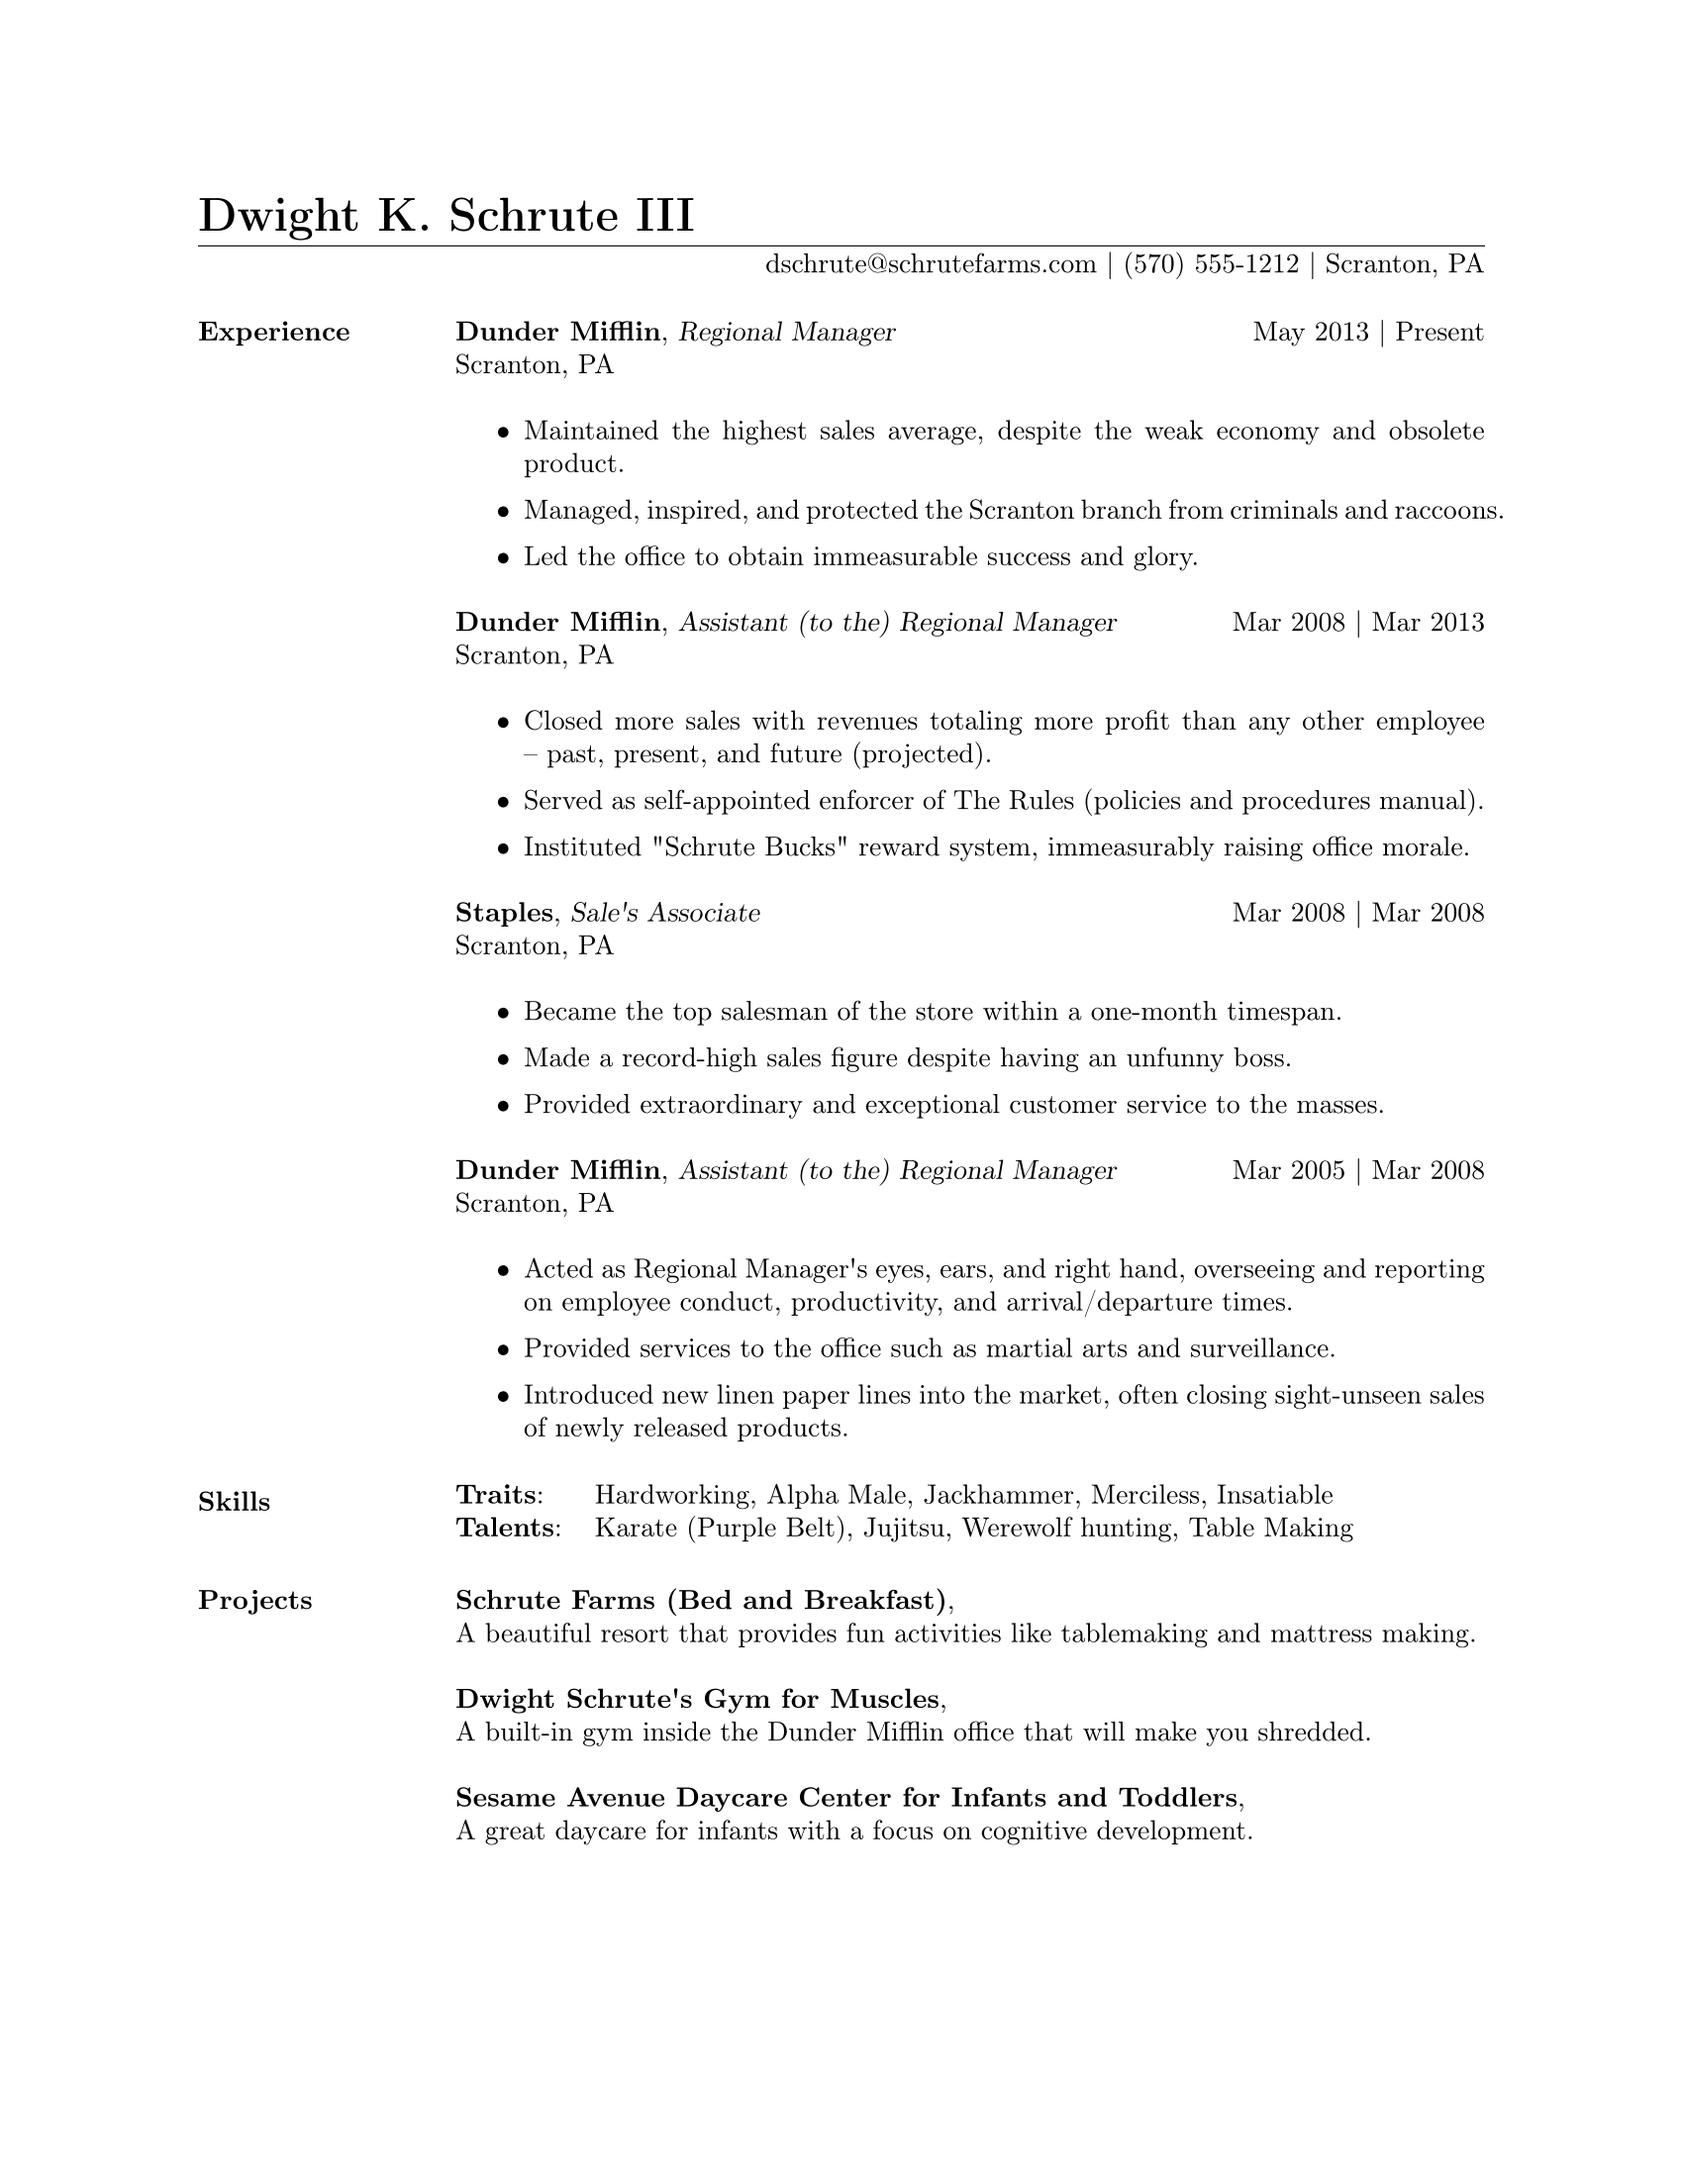
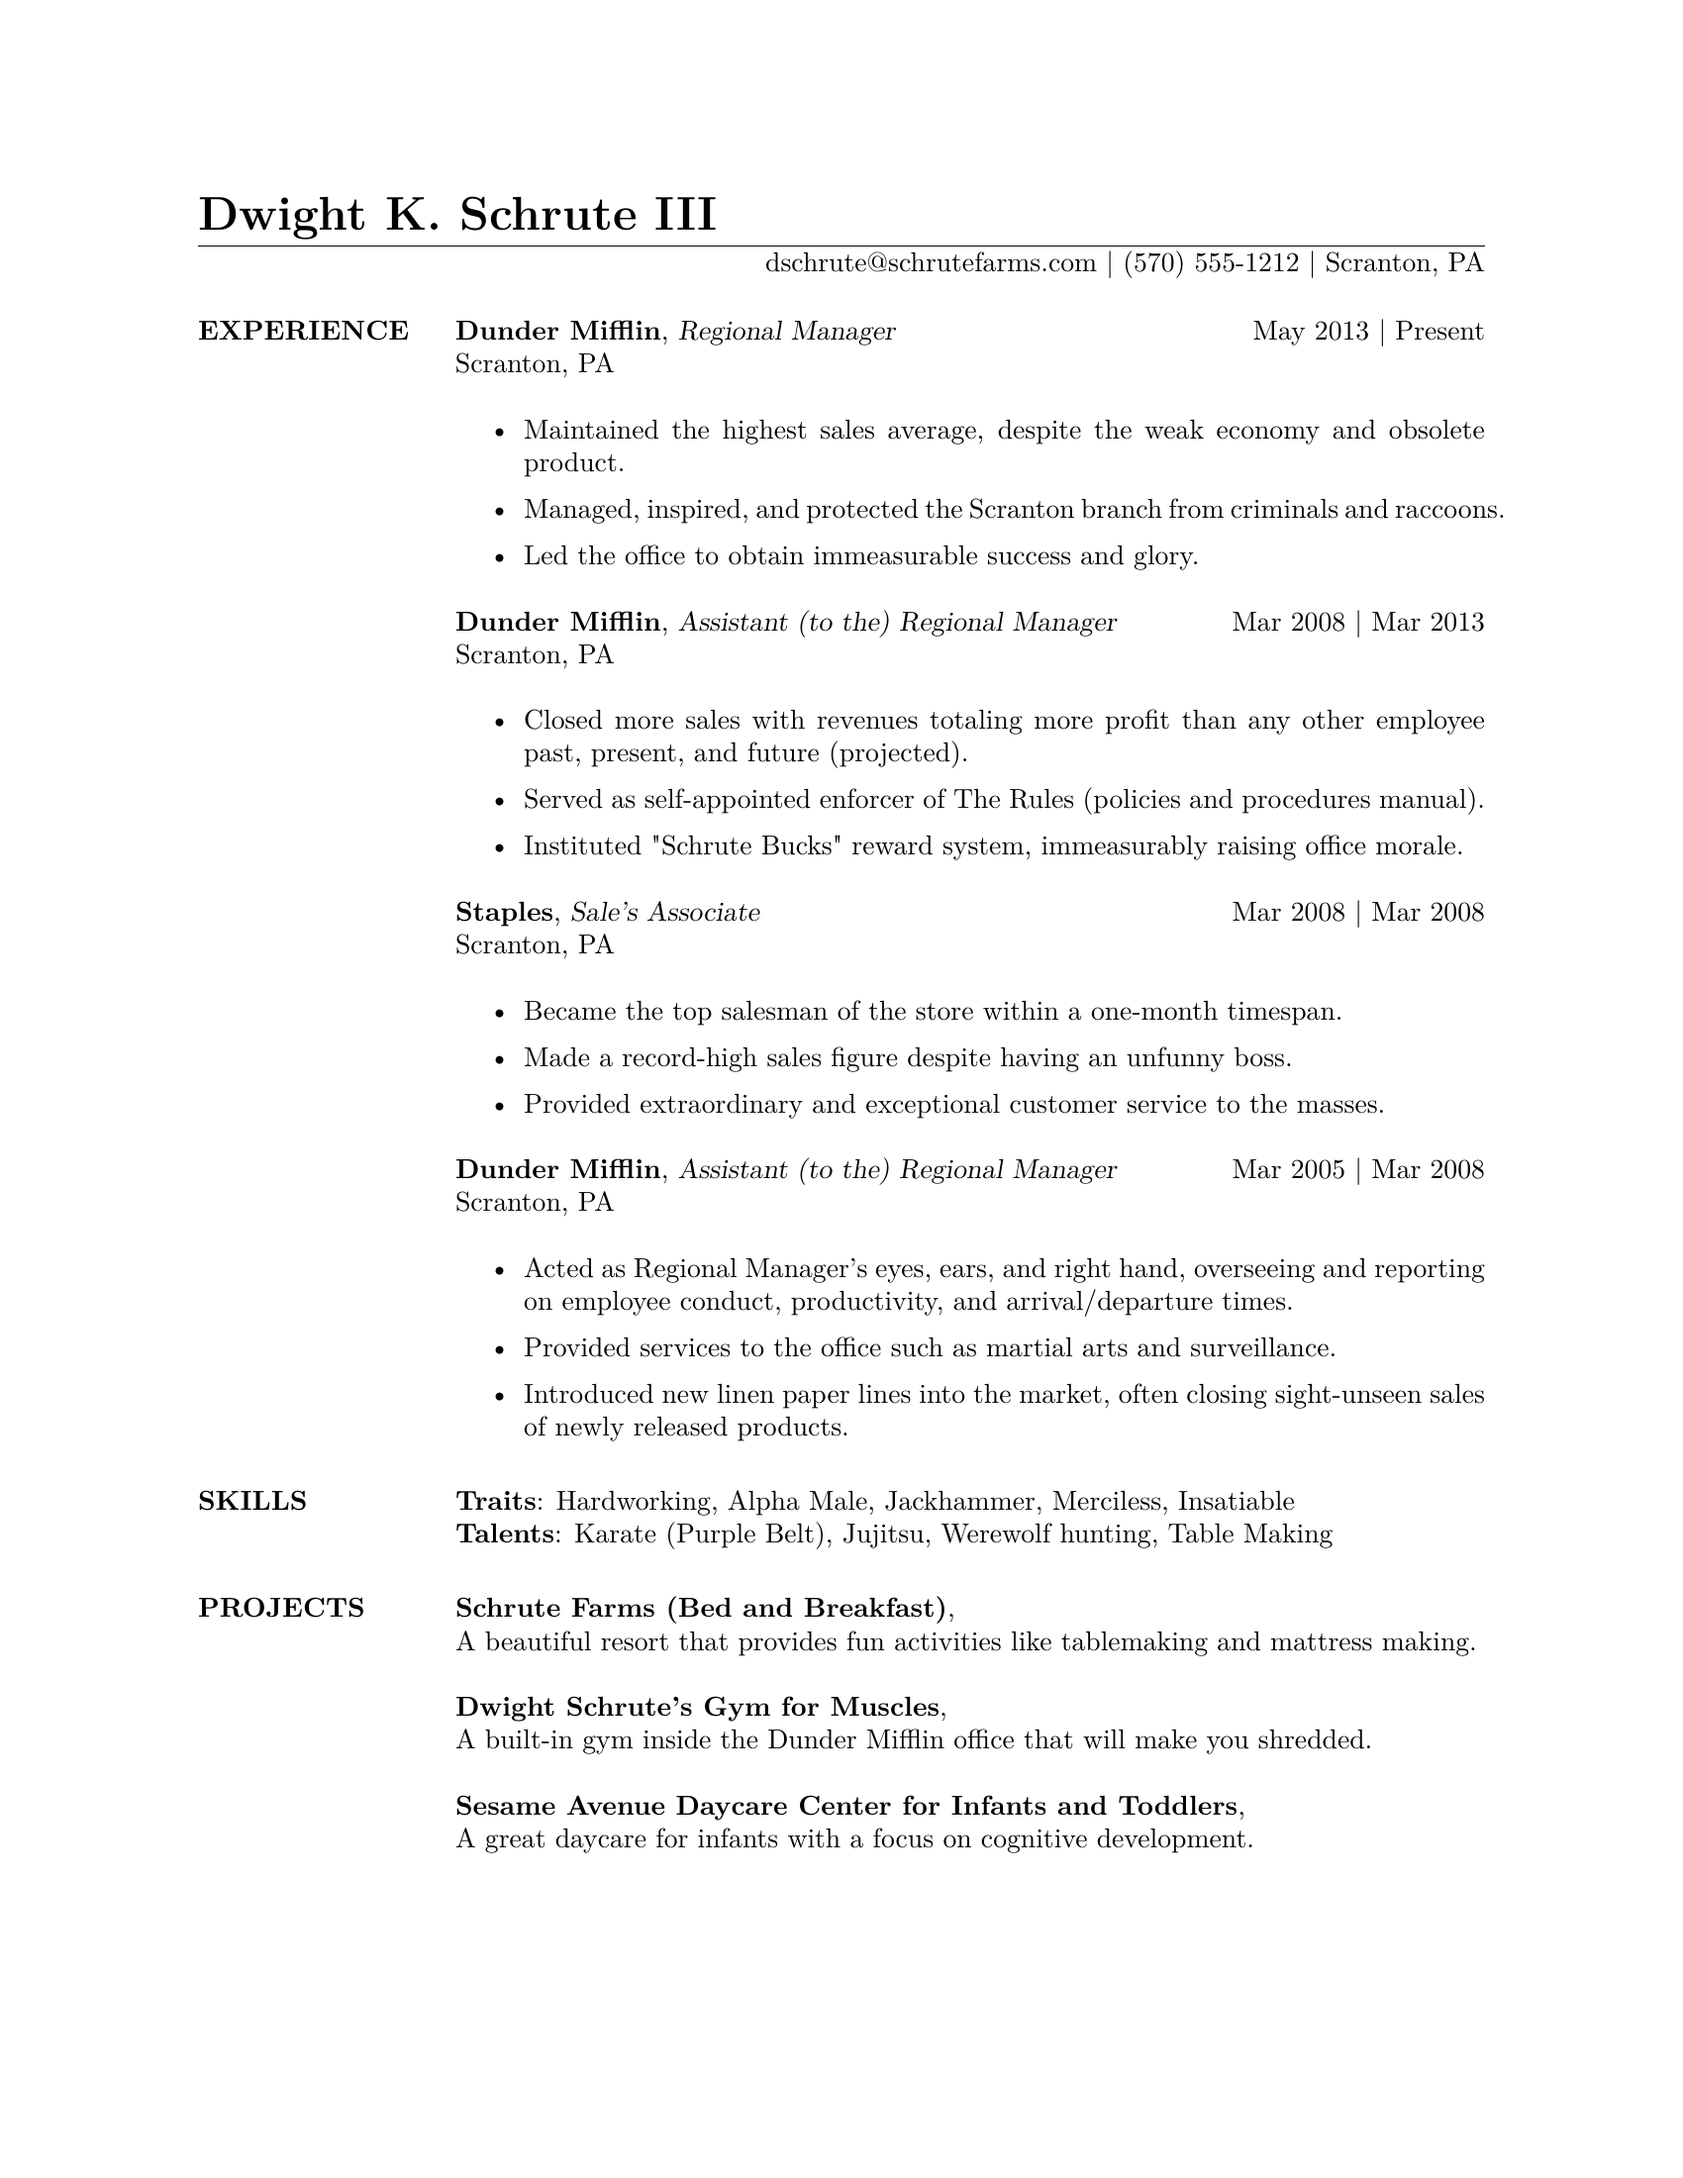
fix(templates): make templates 4, 5, 8, 9 extract cleanly from PDF
- template 4: project URL on its own line, one skill per line
- template 5: one skill per line
- template 8: no common ligatures or line-end hyphenation; titles follow heading
- template 9: precomposed accents, intact education dates, standalone Skills heading
- add dependency-free generator regression tests

diff --git a/src/lib/templates/template9.ts b/src/lib/templates/template9.ts
@@ -78,6 +78,7 @@ const generator: Generator = {
             {${degreeLine}}
             {${dateRange || ''}}
             {${nameLine}}
+            {}
             ${i < lastSchoolIndex ? '\\sepspace' : ''}
         `
       })}
@@ -211,6 +212,9 @@ const generator: Generator = {
       \\usepackage[english]{babel}
       \\usepackage[utf8]{inputenc}
       \\usepackage[T1]{fontenc}
+      % Map accented glyphs to precomposed Unicode characters for PDF text.
+      \\input{glyphtounicode}
+      \\pdfgentounicode=1
       \\usepackage{lmodern}
       \\usepackage[protrusion=true,expansion=true]{microtype}
       \\usepackage[svgnames]{xcolor}  % Colours by their 'svgnames'
@@ -238,24 +242,25 @@ const generator: Generator = {
       \\usepackage{sectsty}
 
       \\sectionfont{                 % Change font of \\section command
-        \\usefont{OT1}{phv}{b}{n}%   % bch-b-n: CharterBT-Bold font
+        \\usefont{T1}{phv}{b}{n}%   % Helvetica Bold font
         \\sectionrule{0pt}{0pt}{-5pt}{3pt}}
 
       %%% Macros
       %%% ------------------------------------------------------------
       \\newlength{\\spacebox}
+      \\newlength{\\datebox}
       \\settowidth{\\spacebox}{8888888888}      % Box to align text
       \\newcommand{\\sepspace}{\\vspace*{1em}}   % Vertical space macro
 
       \\newcommand{\\MyName}[1]{ % Name
-          \\Huge \\usefont{OT1}{phv}{b}{n} \\hfill #1
+          \\Huge \\usefont{T1}{phv}{b}{n} \\hfill #1
           \\par \\normalsize \\normalfont}
 
       \\newcommand{\\MySlogan}[1]{ % Slogan (optional)
           \\large \\usefont{OT1}{phv}{m}{n}\\hfill \\textit{#1}
           \\par \\normalsize \\normalfont}
 
-      \\newcommand{\\NewPart}[1]{\\section*{\\uppercase{#1}}}
+      \\newcommand{\\NewPart}[2]{\\section*{\\uppercase{#1}}}
 
       \\newcommand{\\PersonalEntry}[2]{
           \\noindent\\hangindent=2em\\hangafter=0 % Indentation
@@ -265,9 +270,7 @@ const generator: Generator = {
 
       \\newcommand{\\SkillsEntry}[2]{                % Same as \\PersonalEntry
           \\noindent\\hangindent=2em\\hangafter=0 % Indentation
-          \\parbox{\\spacebox}{                  % Box to align text
-          \\textit{#1}}                    % Entry name (birth, address, etc.)
-          \\hspace{1.5em} #2 \\par}              % Entry value
+          \\textit{#1}\\enspace #2 \\par}
 
       \\newcommand{\\AwardsEntry}[2]{                % Same as \\PersonalEntry
           \\noindent\\hangindent=2em\\hangafter=0 % Indentation
@@ -276,10 +279,9 @@ const generator: Generator = {
           \\hspace{1.5em} #2 \\par}              % Entry value
 
       \\newcommand{\\EducationEntry}[4]{
-          \\noindent \\textbf{#1} \\hfill      % Study
-          \\colorbox{Black}{
-            \\parbox{8.5em}{
-            \\hfill\\color{White}#2}} \\par  % Duration
+          \\settowidth{\\datebox}{#2}
+          \\noindent \\parbox[t]{\\dimexpr\\linewidth-\\datebox-2\\fboxsep-1em\\relax}{\\textbf{#1}} \\hfill
+          \\colorbox{Black}{\\mbox{\\color{White}#2}} \\par  % Duration
           \\noindent \\textit{#3} \\par        % School
           \\noindent\\hangindent=2em\\hangafter=0 \\small #4 % Description
           \\normalsize \\par}

diff --git a/src/lib/templates/template4.ts b/src/lib/templates/template4.ts
@@ -42,7 +42,7 @@ const generator: Generator = {
         ${sectionHeader}
         \\centering{
           \\color{headings}
-          \\fontspec[Path = fonts/raleway/]{Raleway-Medium}
+          \\fontspec[Path = fonts/]{Raleway-Medium}
           \\fontsize{11pt}{14pt}
           \\selectfont ${info}
         }
@@ -209,12 +209,10 @@ const generator: Generator = {
       %%%%%%%%%%%%%%%%%%%%%%%%%%%%%%%%%%%%%%
       \\section{${heading || 'Skills'}}
       \\raggedright
-      \\begin{tabular}{ l l }
       ${skills.map((skill) => {
         const { name = '', keywords = [] } = skill
-        return `\\descript{${name}} & {\\location{${keywords.join(', ')}}} \\\\`
+        return `\\noindent {\\descript{${name}:} \\location{${keywords.join(', ')}}}\\par`
       })}
-      \\end{tabular}
       \\sectionsep
     `
   },
@@ -238,6 +236,7 @@ const generator: Generator = {
         let line1 = ''
         let line2 = ''
         let line3 = ''
+        let urlLine = ''
 
         if (name) {
           line1 += `\\runsubsection{\\large{${name}}}`
@@ -248,11 +247,14 @@ const generator: Generator = {
         }
 
         if (url) {
-          line2 += `\\hfill \\location{${url}}`
+          urlLine = `\\noindent\\location{\\url{${url}}}\\par`
         }
 
-        if (line2) {
-          line2 += '\\\\'
+        if (line1 || line2) {
+          line2 += '\\par'
+          if (url) {
+            line2 += '\\nopagebreak[4]'
+          }
         }
 
         if (description) {
@@ -262,6 +264,7 @@ const generator: Generator = {
         return `
           ${line1}
           ${line2}
+          ${urlLine}
           ${line3}
           \\sectionsep
         `
@@ -354,6 +357,7 @@ function template4(values: FormValues) {
   return stripIndent`
     ${generator.resumeHeader()}
     \\documentclass[]{deedy-resume-openfont}
+    \\urlstyle{same}
 
     \\begin{document}
     ${values.sections

diff --git a/src/lib/templates/template5.ts b/src/lib/templates/template5.ts
@@ -160,13 +160,15 @@ const generator: Omit<Generator, 'resumeHeader'> = {
     }
 
     return source`
+      \\par
+      \\begingroup
+      \\setlength{\\parskip}{0pt}
       \\section{${heading || 'SKILLS'}}
-      \\begin{tabular}{@{}ll}
       ${skills.map((skill) => {
         const { name, keywords = [] } = skill
-        return `\\textbf{${name || ''}}: & ${keywords.join(', ') || ''}\\\\`
+        return `\\noindent \\textbf{${name || ''}}: ${keywords.join(', ') || ''}\\par`
       })}
-      \\end{tabular}
+      \\endgroup
     `
   },
 

diff --git a/src/lib/templates/template8.ts b/src/lib/templates/template8.ts
@@ -269,6 +269,10 @@ function template8(values: FormValues) {
     ${generator.resumeHeader()}
     % The font could be set to Windows-specific Calibri by using the 'calibri' option
     \\documentclass[]{mcdowellcv}
+    \\defaultfontfeatures{Ligatures=NoCommon}
+    \\setmainfont{Latin Modern Roman}
+    \\usepackage[none]{hyphenat}
+    \\sloppy
 
     % For mathematical symbols
     \\usepackage{amsmath}

diff --git a/test/index.js b/test/index.js
@@ -1,0 +1,7 @@
+// Node versions that resolve an explicit test directory as a module need an entry point.
+const fs = require('node:fs')
+const path = require('node:path')
+
+for (const file of fs.readdirSync(__dirname)) {
+  if (file.endsWith('.test.cjs')) require(path.join(__dirname, file))
+}
